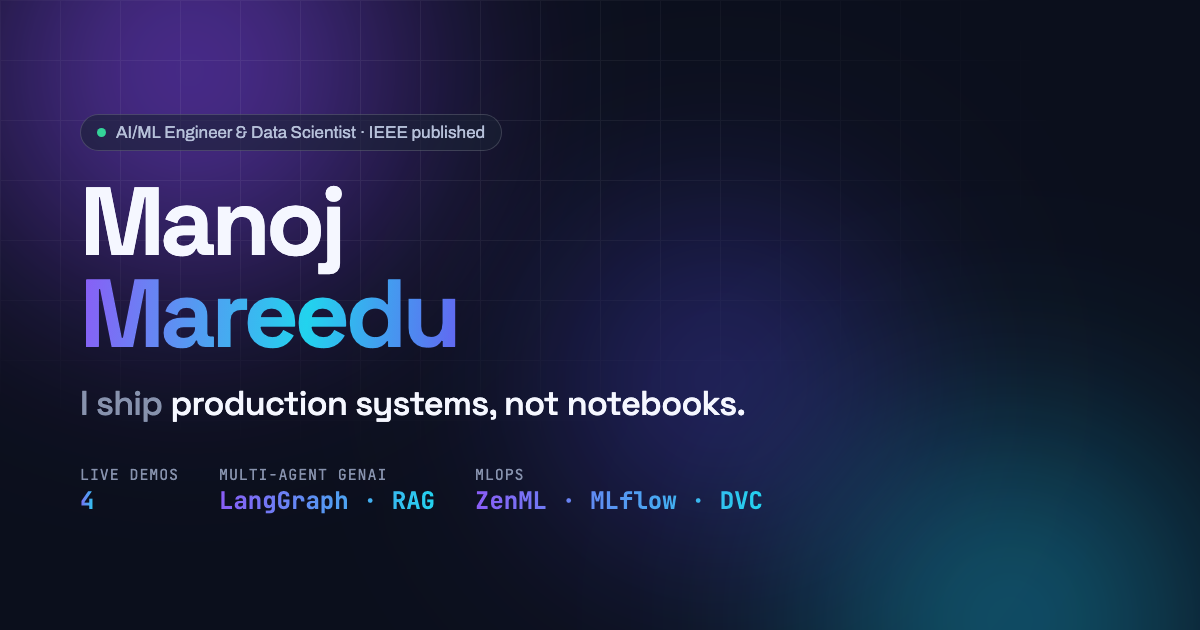
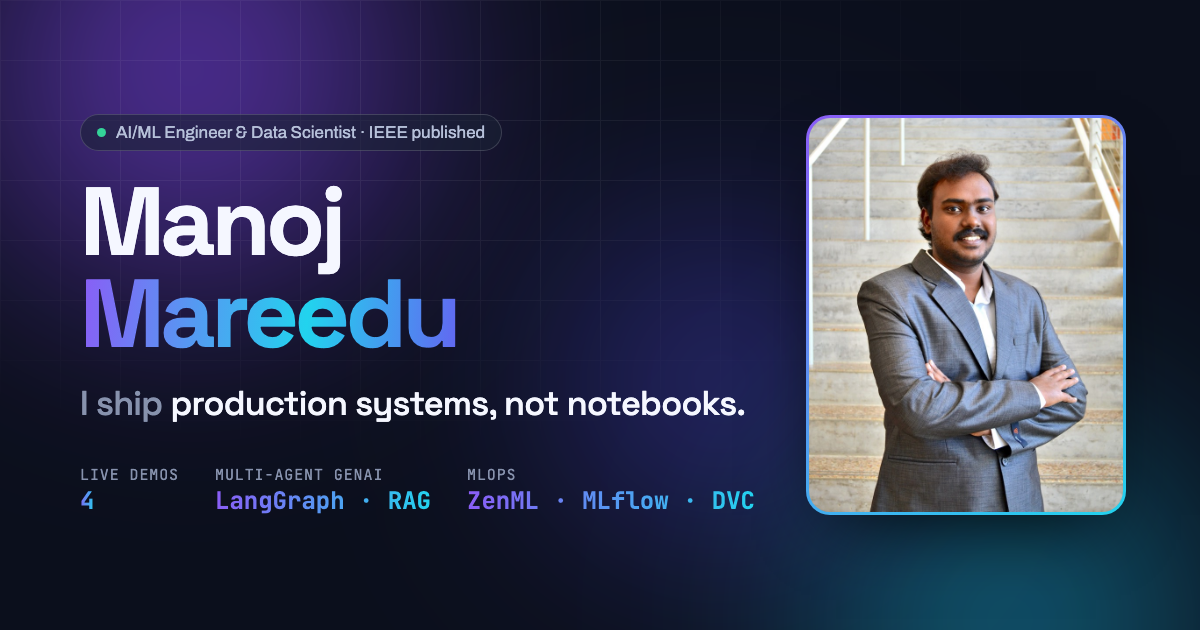
feat: add headshot to the about card and social preview
Compressed to 720x900 (1.5 MB -> 156 KB), lazy-loaded with explicit
dimensions so it reserves its space and cannot shift the layout.

Changed region(s): [[0.1542, 0.181, 0.9558, 0.8746]]

diff --git a/tools/og.html b/tools/og.html
@@ -16,6 +16,14 @@
     display: flex; flex-direction: column; justify-content: center;
     padding: 74px 80px;
   }
+  .face {
+    position: absolute; right: 74px; top: 50%; translate: 0 -50%;
+    width: 320px; aspect-ratio: 4 / 5;
+    border-radius: 24px; padding: 3px;
+    background: linear-gradient(150deg, #8b5cf6, #22d3ee);
+    box-shadow: 0 30px 70px -30px rgba(0, 0, 0, .9);
+  }
+  .face img { display: block; width: 100%; height: 100%; object-fit: cover; object-position: 50% 15%; border-radius: 21px; }
   .blob { position: absolute; border-radius: 50%; filter: blur(90px); mix-blend-mode: screen; }
   .b1 { width: 700px; height: 700px; top: -280px; left: -160px; background: radial-gradient(circle, #7c3aed, transparent 65%); opacity: .75; }
   .b2 { width: 620px; height: 620px; bottom: -300px; right: -120px; background: radial-gradient(circle, #0891b2, transparent 65%); opacity: .7; }
@@ -34,6 +42,7 @@
   }
   .dot { width: 9px; height: 9px; border-radius: 50%; background: #34d399; }
   h1 {
+    max-width: 700px;
     margin: 26px 0 0; font-family: "Space Grotesk", sans-serif; font-weight: 700;
     font-size: 96px; line-height: .95; letter-spacing: -.045em;
   }
@@ -42,11 +51,12 @@
     -webkit-background-clip: text; background-clip: text; -webkit-text-fill-color: transparent;
   }
   .tag {
+    max-width: 700px;
     margin-top: 22px; font-family: "Space Grotesk", sans-serif; font-weight: 500;
     font-size: 34px; letter-spacing: -.02em;
   }
   .tag i { font-style: normal; color: #8792ad; }
-  .strip { display: flex; gap: 40px; margin-top: 40px; font-family: "JetBrains Mono", monospace; font-size: 18px; color: #b6c0d9; }
+  .strip { display: flex; gap: 36px; max-width: 700px; flex-wrap: wrap; margin-top: 40px; font-family: "JetBrains Mono", monospace; font-size: 18px; color: #b6c0d9; }
   .strip b { display: block; font-size: 15px; font-weight: 400; color: #8792ad; letter-spacing: .06em; text-transform: uppercase; }
   .strip u {
     text-decoration: none; font-weight: 700; font-size: 24px;
@@ -57,6 +67,8 @@
 </head>
 <body>
   <div class="blob b1"></div><div class="blob b2"></div><div class="blob b3"></div><div class="grid"></div>
+
+  <figure class="face"><img src="../headshot.jpg" alt=""></figure>
 
   <main>
     <span class="pill"><span class="dot"></span> AI/ML Engineer &amp; Data Scientist · IEEE published</span>

diff --git a/styles.css b/styles.css
@@ -290,6 +290,19 @@ section { position: relative; padding: clamp(4.5rem, 11vw, 9rem) 0; scroll-margi
 .about-copy p + p { margin-top: 1rem; }
 .about-copy p:first-of-type { color: var(--fg); font-size: 1.0625rem; }
 
+.portrait {
+  position: relative; margin: 0 0 1.4rem;
+  border-radius: calc(var(--radius) - 4px);
+  padding: 2px;
+  background: var(--grad);
+}
+.portrait img {
+  display: block; width: 100%; height: auto;
+  aspect-ratio: 4 / 5; object-fit: cover; object-position: 50% 18%;
+  border-radius: calc(var(--radius) - 6px);
+  filter: saturate(1.02) contrast(1.02);
+}
+
 .about-facts h3 { font-family: var(--mono); font-size: 0.75rem; font-weight: 500; letter-spacing: 0.16em; text-transform: uppercase; color: var(--fg-mute); }
 .about-facts dl { display: grid; gap: 0.9rem; margin: 1.4rem 0 1.6rem; }
 .about-facts dt { font-family: var(--mono); font-size: 0.68rem; letter-spacing: 0.12em; text-transform: uppercase; color: var(--cyan); }

diff --git a/index.html b/index.html
@@ -172,6 +172,10 @@
     </div>
 
     <aside class="card about-facts reveal" data-tilt style="--i:2">
+      <figure class="portrait">
+        <img src="headshot.jpg" width="720" height="900" loading="lazy" decoding="async"
+             alt="Manoj Mareedu, AI/ML engineer and data scientist">
+      </figure>
       <h3>At a glance</h3>
       <dl>
         <div><dt>Role</dt><dd>AI/ML Engineer &amp; Data Scientist</dd></div>
